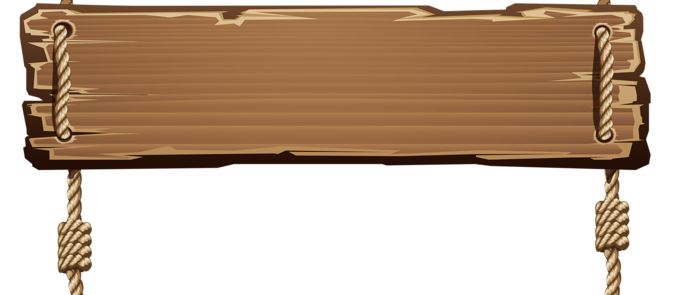
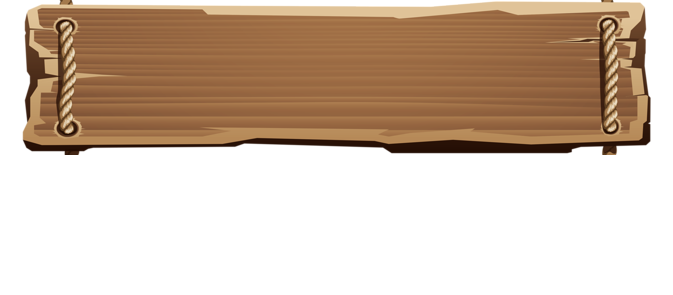
ПЕРЕНО С ПК НА ПК

Changed region(s): [[0.0312, 0.0, 0.9673, 1.0], [0.5617, 0.3661, 0.5929, 0.3966]]

diff --git a/menuView.py b/menuView.py
@@ -27,22 +27,37 @@ class Menu_View(arcade.View):
     def _create_buttons(self):
         buttons = []
 
-        button_height = 60
-        button_width = 200 
+        button_height = 200
+        button_width = 300 
         button_indention = 100
 
-        # Start Game
-        buttons.append(Button(SCREEN_WIDTH // 2, SCREEN_HEIGHT // 2, 
-                              button_width, button_height, 'Start Game', self._start_game))
-        # Info Game
-        buttons.append(Button(SCREEN_WIDTH // 2, SCREEN_HEIGHT // 2 - button_indention * len(buttons), 
-                              button_width, button_height, 'Info', None))
-        # Leader boart
-        buttons.append(Button(SCREEN_WIDTH // 2, SCREEN_HEIGHT // 2 - button_indention * len(buttons), 
-                              button_width, button_height, 'Leader Boart', None))
         # Exit app
-        buttons.append(Button(SCREEN_WIDTH // 2, SCREEN_HEIGHT // 2 - button_indention * len(buttons), 
-                              button_width, button_height, 'Exit', self._quit_game))
+        buttons.append(Button(SCREEN_WIDTH // 2, button_indention * len(buttons), 
+                              button_width, button_height, 'Exit',
+                              'assets/menuView/button/down_button/folder-1.png', 
+                              'assets/menuView/button/down_button/folder-1.png', 
+                               self._quit_game))
+
+        # Info Game
+        buttons.append(Button(SCREEN_WIDTH // 2, button_indention * len(buttons),
+                              button_width, button_height, 'Info', 
+                              'assets/menuView/button/center_button/folder-1.png', 
+                              'assets/menuView/button/center_button/folder-1.png', 
+                              None))
+        
+        # Leader boart
+        buttons.append(Button(SCREEN_WIDTH // 2, button_indention * len(buttons),
+                              button_width, button_height, 'Leader Boart',
+                              'assets/menuView/button/center_button/folder-1.png', 
+                              'assets/menuView/button/center_button/folder-1.png', 
+                              None))
+        
+
+        # Start Game
+        buttons.append(Button(SCREEN_WIDTH // 2, button_indention * len(buttons) + 100,
+                              button_width, button_height, 'Start Game',
+                              "assets/menuView/button/UP_button/folder-1.png",
+                              "assets/menuView/button/UP_button/folder-1.png", self._start_game))
 
         return buttons
     

diff --git a/tools.py b/tools.py
@@ -46,8 +46,11 @@ class Button:
         current_texture = self._hover_texture if self.check_hover else self._normal_texture
         
         arcade.draw_texture_rectangle(self.x, self.y, self.width, self.height, current_texture)
-        #arcade.draw_rectangle_filled(self.x, self.y, self.width, self.height, color)
-        arcade.draw_text(self.text, self.x - self.width / 2 + 10, self.y - self.height / 4, text_color, 18)
+        
+        # outline
+        arcade.draw_rectangle_outline(self.x, self.y, self.width, self.height, arcade.color.RED, 5)
+
+        #arcade.draw_text(self.text, self.x - self.width/2, self.y - self.height/2, text_color, 20, width=self.width, align = "center")
 
     def check_click(self, x, y):
         """ is click ??? """
